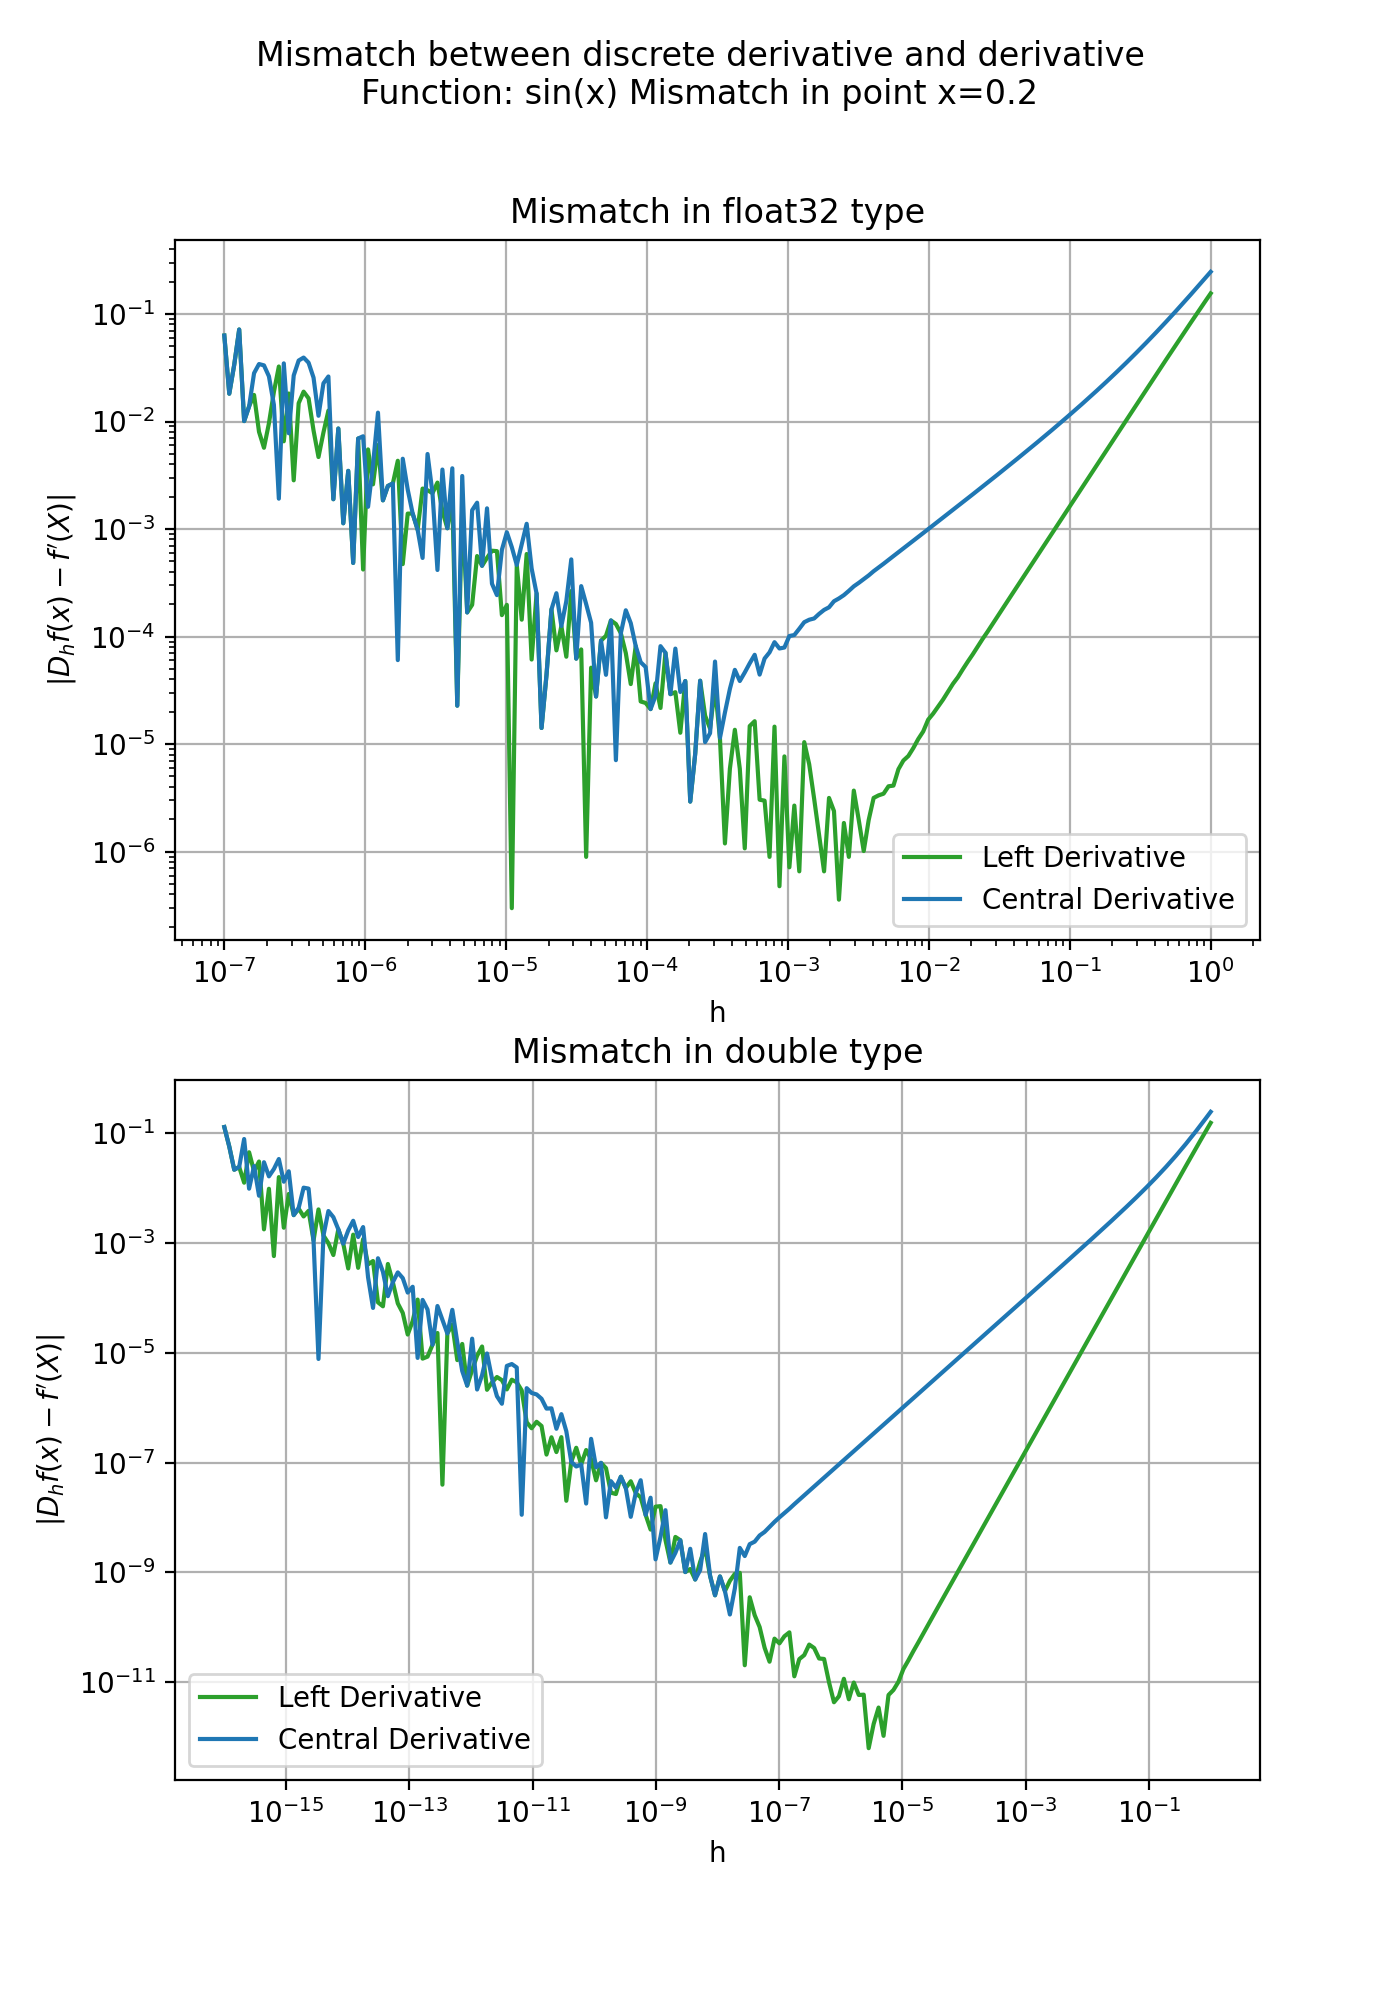
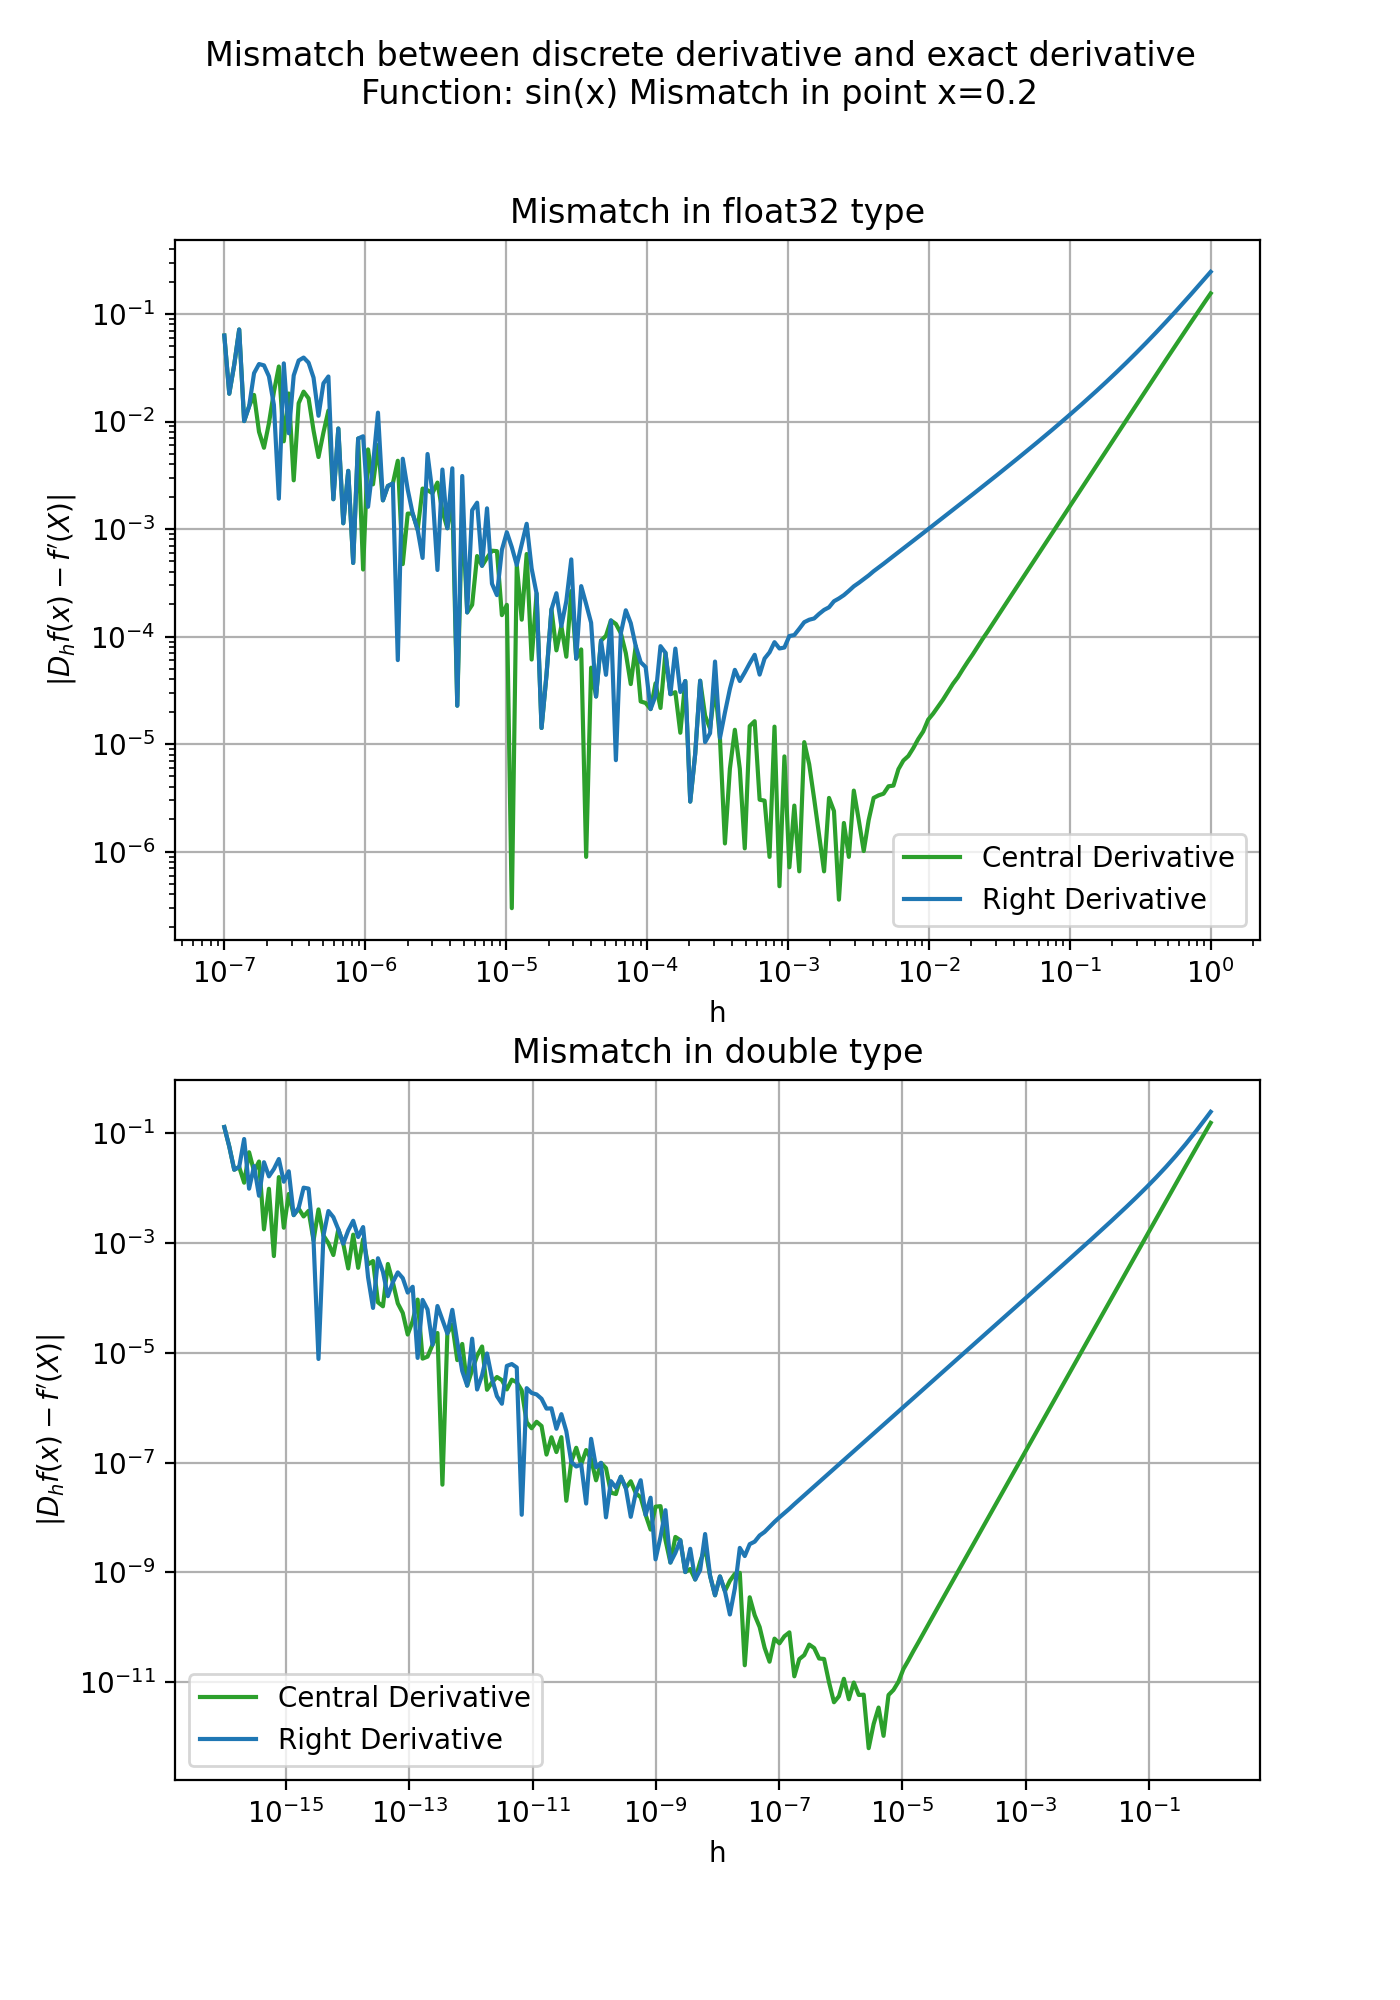
Done

Changed region(s): [[0.1536, 0.0, 0.8293, 0.031], [0.1843, 0.837, 0.3686, 0.899], [0.7064, 0.403, 0.86, 0.465]]

diff --git a/NUM1/main.py b/NUM1/main.py
@@ -1,7 +1,8 @@
 """
 ---------------------------------------------------------------
     The program analyzes the mismatch between derivative value
-    computed between the discrete derivative and the derivative
+    computed between the discrete derivative and the exact
+    derivative in given point
 ---------------------------------------------------------------
     Autor: Jakub Krecisz                     Krakow, 27.04.2022
 ---------------------------------------------------------------
@@ -9,38 +10,39 @@
 
 import sys
 import numpy as np
+import pandas as pd
 import matplotlib.pyplot as plt
 
-from config import POINT, POINT_AMOUNT, PRECISION, FILE_PLOT
+from config import POINT, POINT_AMOUNT, PRECISION, \
+    FILE_NAME_PLOT, FILE_NAME_TABLE
 
-
-def leftApproximation(h):
-    return (np.sin(POINT) - np.sin(POINT - h)) / h
 
 def rightApproximation(h):
     return (np.sin(POINT + h) - np.sin(POINT)) / h
 
+
 def centralApproximation(h):
     return (np.sin(POINT + h) - np.sin(POINT - h)) / (2 * h)
 
-def getDifference(function, hPoint):
-    return np.absolute(function(hPoint) - np.cos(POINT))
+
+def getDifference(function, hPoints):
+    return np.abs(function(hPoints) - np.cos(POINT))
+
 
 def drawPlot(plot, dataType):
     plot.grid(True)
     plot.set_title(f'Mismatch in {dataType} type')
     hPoints = np.logspace(PRECISION[dataType], 0, num=POINT_AMOUNT, dtype=dataType)
-    diffLeft = np.array(getDifference(leftApproximation, hPoints), dtype=dataType)
     diffCentral = np.array(getDifference(centralApproximation, hPoints), dtype=dataType)
     diffRight = np.array(getDifference(rightApproximation, hPoints), dtype=dataType)
-    # plot.loglog(hPoints, diffLeft, 'tab:red')
     plot.loglog(hPoints, diffCentral, 'tab:green')
     plot.loglog(hPoints, diffRight, 'tab:blue')
-    plot.legend(['Left Derivative', 'Central Derivative'])
+    plot.legend(['Central Derivative', 'Right Derivative'])
+
 
 def generatePlots():
     fig, axs = plt.subplots(2)
-    fig.suptitle('Mismatch between discrete derivative and derivative\n'
+    fig.suptitle('Mismatch between discrete derivative and exact derivative\n'
                  f'Function: sin(x) Mismatch in point x={POINT}')
     fig.set_size_inches(7, 10)
     for ax in axs.flat:
@@ -48,25 +50,32 @@ def generatePlots():
 
     drawPlot(axs[0], 'float32')
     drawPlot(axs[1], 'double')
-    plt.savefig(FILE_PLOT, dpi=200)
+    plt.savefig(FILE_NAME_PLOT, dpi=200)
 
-def generateTables():
-    dataType = 'float32'
-    hPoints = np.logspace(PRECISION[dataType], 0, num=POINT_AMOUNT, dtype=dataType)
-    diffLeft = np.array(getDifference(leftApproximation, hPoints), dtype=dataType)
+
+def generateTable(dataType):
+    fig, ax = plt.subplots()
+    ax.axis('off')
+    ax.axis('tight')
+
+    hPoints = np.logspace(PRECISION[dataType], 0, num=POINT_AMOUNT+1, dtype=dataType)
     diffCentral = np.array(getDifference(centralApproximation, hPoints), dtype=dataType)
     diffRight = np.array(getDifference(rightApproximation, hPoints), dtype=dataType)
 
+    table = pd.DataFrame(data={'H': hPoints,
+                               'Central Derivative difference': diffCentral,
+                               'Right Derivative difference': diffRight})
+
+    ax.table(cellText=table.values[::int((POINT_AMOUNT / 20))], colLabels=table.columns, loc='center')
+    fig.tight_layout()
+    plt.savefig(FILE_NAME_TABLE.format(daType=dataType))
+
 
 if __name__ == '__main__':
-    if len(sys.argv) != 2:
-        print(f'Wrong number of arguments!')
-        sys.exit()
-
     if sys.argv[1] == 'plot':
         generatePlots()
     elif sys.argv[1] == 'table':
-        generateTables()
+        generateTable('float32' if sys.argv[2] == 'float32' else 'double')
     else:
         print(f'Bad argument! - [plot/table] instead of: {sys.argv[1]}')
         sys.exit()

diff --git a/NUM1/config.py b/NUM1/config.py
@@ -12,5 +12,5 @@ PRECISION = {
 }
 
 # File names
-FILE_PLOT = 'plot.png'
-FILE_TABLE = 'table.png'
+FILE_NAME_PLOT = 'plot.png'
+FILE_NAME_TABLE = r'table_{daType}.png'
